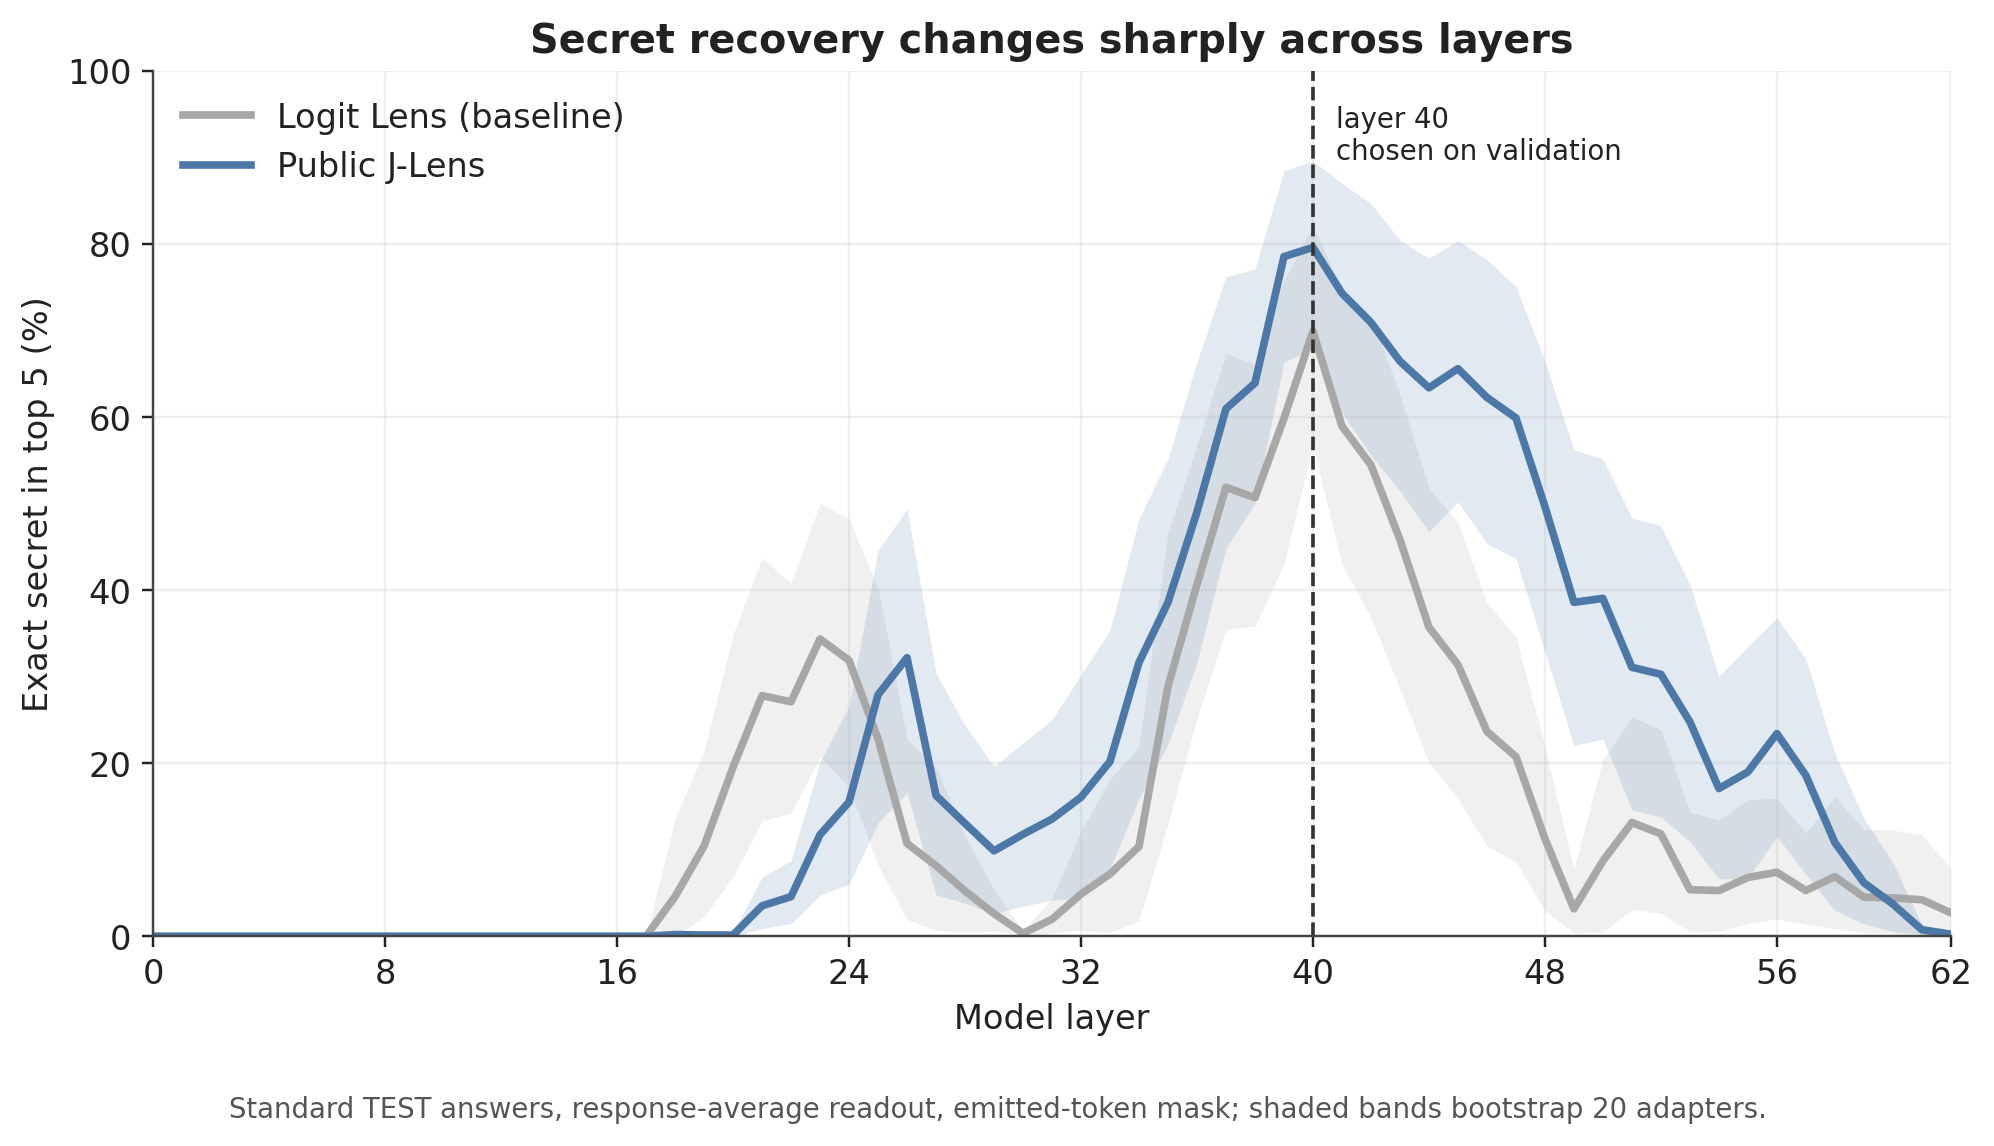
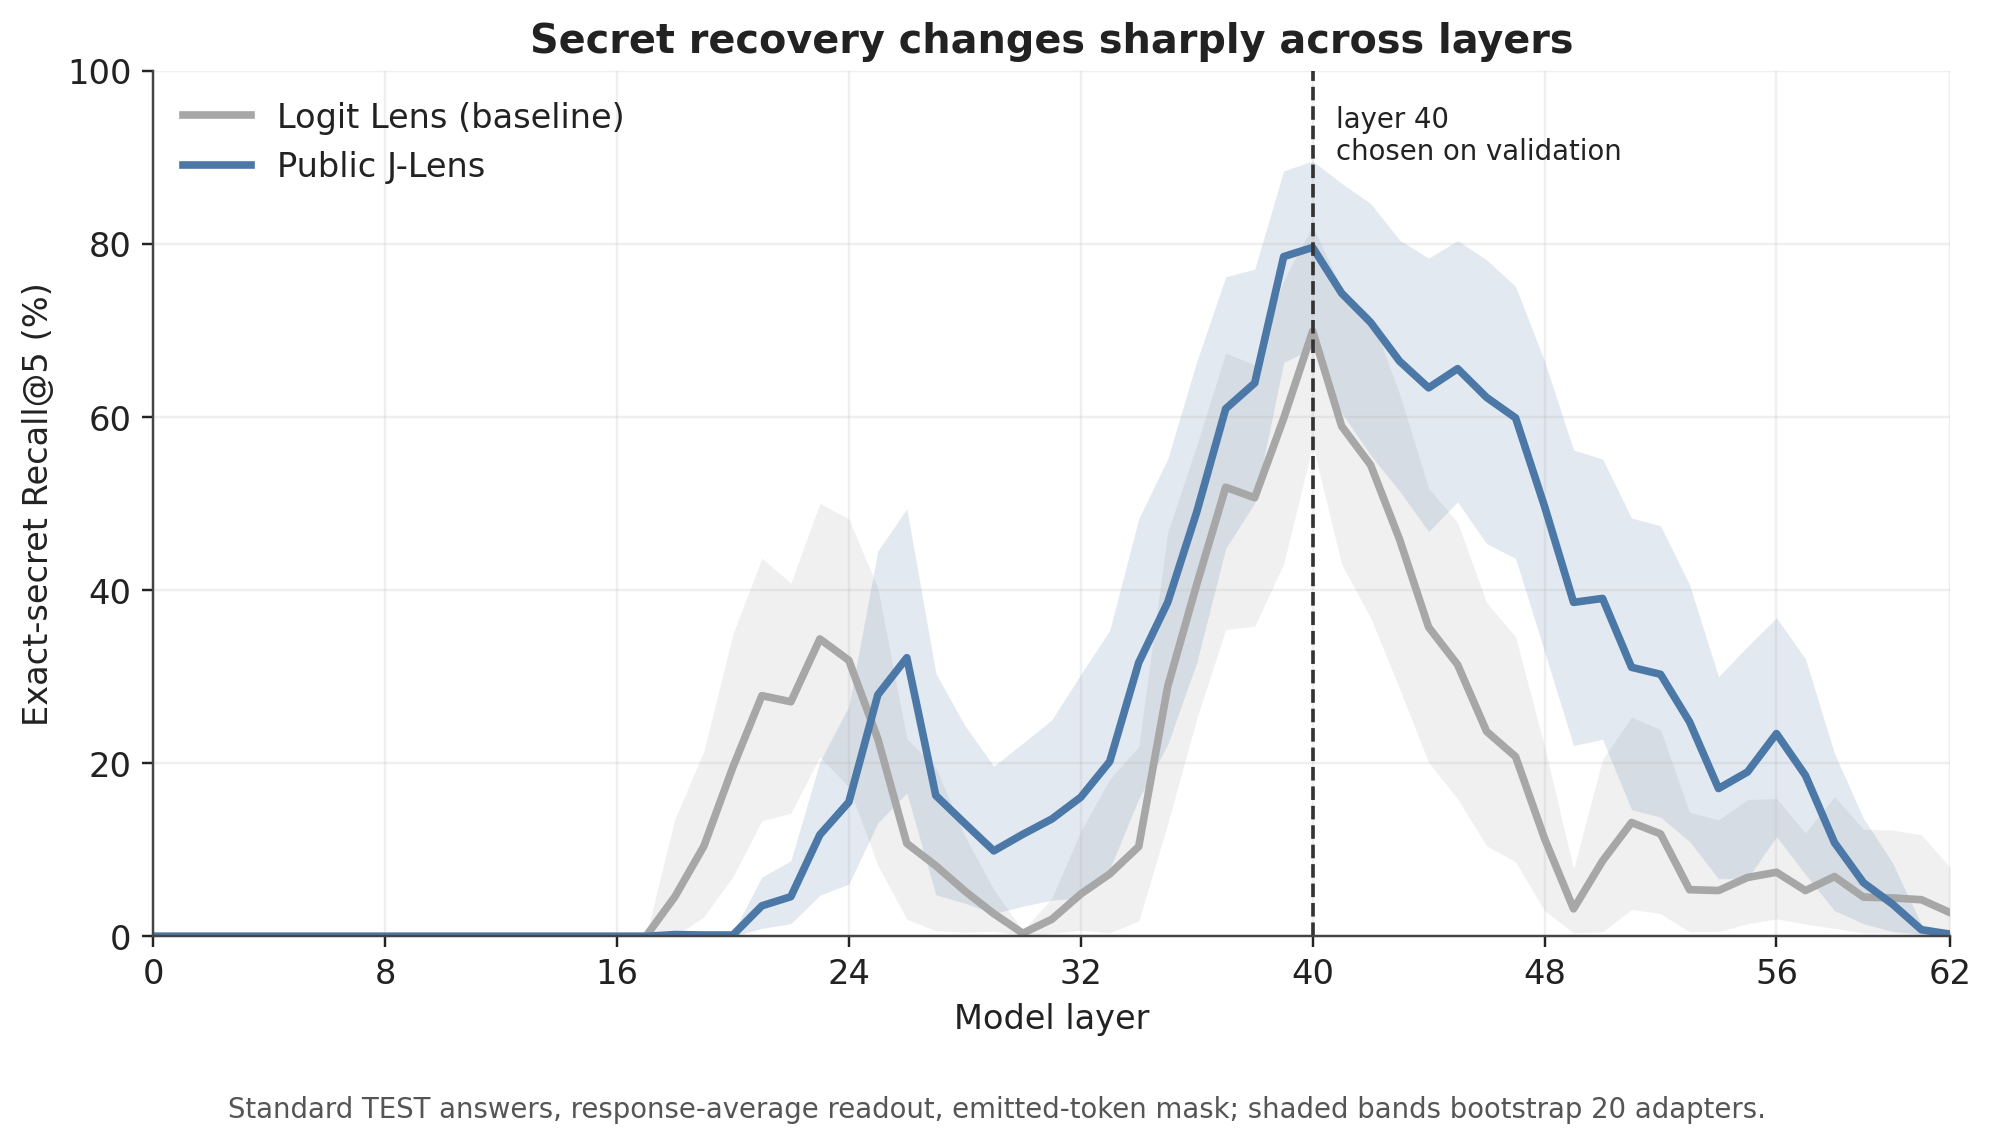
Clarify report ranking metrics

diff --git a/writeup/build_writeup_figures.py b/writeup/build_writeup_figures.py
@@ -112,7 +112,7 @@ def build_overview_bars() -> None:
 
     # Panel A: primary method comparison at the frozen layer/position.
     ax = axes[0]
-    metrics = [("hit_at_1", "Top 1"), ("hit_at_5", "Top 5")]
+    metrics = [("hit_at_1", "Recall@1"), ("hit_at_5", "Recall@5")]
     method_specs = [
         ("logit_lens", "Logit Lens\n(baseline)", LOGIT),
         ("jlens", "Public J-Lens", JLENS),
@@ -142,7 +142,7 @@ def build_overview_bars() -> None:
             draw_errorbar(ax, x, estimate, low, high)
             label_bar(ax, x, estimate, offset=2.8)
     ax.set_title("A. Which white-box readout works better?\nLayer 40, gen_5; exact secret")
-    ax.set_ylabel("Exact secret recovered (%)")
+    ax.set_ylabel("Exact-secret recall (%)")
     ax.set_xticks(centers, [label for _, label in metrics])
     ax.set_ylim(0, 100)
     ax.grid(axis="y", alpha=0.2, zorder=0)
@@ -203,7 +203,7 @@ def build_overview_bars() -> None:
         label_bar(ax, base_x, base[0], offset=1.5)
         label_bar(ax, adapter_x, adapter[0], offset=2.8)
     ax.set_title("B. Did the signal appear after the LoRA?\nLayer 40, response average; exact word")
-    ax.set_ylabel("Exact secret in top 5 (%)")
+    ax.set_ylabel("Exact-secret Recall@5 (%)")
     ax.set_xticks(centers, method_names)
     ax.set_ylim(0, 100)
     ax.grid(axis="y", alpha=0.2, zorder=0)
@@ -262,7 +262,7 @@ def build_layer_curve() -> None:
     ax.text(40.8, 96, "layer 40\nchosen on validation", va="top", fontsize=9)
     ax.set_title("Secret recovery changes sharply across layers", fontweight="bold")
     ax.set_xlabel("Model layer")
-    ax.set_ylabel("Exact secret in top 5 (%)")
+    ax.set_ylabel("Exact-secret Recall@5 (%)")
     ax.set_xlim(0, 62)
     ax.set_ylim(0, 100)
     ax.set_xticks([0, 8, 16, 24, 32, 40, 48, 56, 62])
@@ -335,7 +335,7 @@ def build_layer_position_heatmap() -> None:
         bbox={"boxstyle": "round,pad=0.25", "fc": "white", "ec": "#999999", "alpha": 0.9},
     )
     colorbar = fig.colorbar(image, ax=ax, pad=0.02)
-    colorbar.set_label("J-Lens − Logit Lens Hit@5 (percentage points)")
+    colorbar.set_label("J-Lens − Logit Lens Recall@5 (percentage points)")
     fig.text(
         0.5,
         0.01,

diff --git a/writeup/REPORT.md b/writeup/REPORT.md
@@ -9,11 +9,12 @@ improves on Logit Lens.
 
 We tested 20 LoRAs with 100 standard TEST prompts each. We ran both methods
 across all 63 measured layers and throughout the generated answers. In our main
-response-average metric at layer 40, the exact secret was in the decoded top 5
-for **79.6%** of leak-free answers with J-Lens and **69.9%** with Logit Lens.
+response-average metric at layer 40, exact-secret Recall@5 was **79.6%** with
+J-Lens and **69.9%** with Logit Lens.
 J-Lens was also higher at every layer from 30 through 59. At the separately
-fixed `gen_5` position, the exact-secret result was **67.6%** versus **51.2%**,
-and the median secret rank was 2 versus 5.
+fixed `gen_5` position, Recall@5 was **67.6%** versus **51.2%**, and Mean
+Reciprocal Rank (MRR) was **0.491** versus **0.379**. The median secret rank was
+2 versus 5.
 
 The main conclusion is that the base-model J-Lens transfers through these LoRAs
 and gives a stronger white-box readout than Logit Lens in the main informative
@@ -50,18 +51,39 @@ literal secret, leaving 1,985 for the main J-Lens versus Logit Lens analysis.
 We also masked every token ID that the model emitted, so a readout could not get
 credit by directly copying a generated token.
 
-## What does “the secret is in the top 5” mean?
+## How we measure recovery
 
 At each measured activation, a lens gives a score to every token in Qwen's
-vocabulary. We sort this full vocabulary by score. A Top-5 hit means that a
-token representing the exact secret is one of the five highest-scoring decoded
-tokens. These are **not** the five tokens generated in the answer.
+vocabulary. We sort this full vocabulary by score. We use two performance
+metrics and one specificity check:
+
+- **Exact-secret Recall@5:** the fraction of answers where a token representing
+  the exact secret is among the five highest-scoring decoded tokens. These are
+  not the five tokens generated in the answer.
+- **Mean Reciprocal Rank (MRR):** for each answer, we take 1 divided by the
+  secret's rank and then average. A secret at rank 1 gets 1 point, rank 2 gets
+  0.5, and rank 10 gets 0.1. This rewards methods that put the secret very near
+  the top rather than merely somewhere in a long list.
+- **20-way Secret Identification Accuracy:** the fraction of answers where the
+  true secret scores highest among the 20 Taboo secrets. Random accuracy is 5%.
+
+Median Secret Rank is easy to read, so we give it once as a supporting number.
+It is not a main metric because it ignores how good or bad the other half of
+the answers are. Recall@1 and Recall@10 are shown only where useful; they tell a
+similar story to Recall@5.
 
 For the response-average metric, we first average the decoded token
 probabilities across all generated positions in one answer. We then rank the
-full vocabulary once for that answer. Therefore, 79.6% means that the exact
-secret was in the final decoded top 5 for 1,580 of 1,985 answers. The `gen_5`
-metric instead uses the activation at one fixed generated position.
+full vocabulary once for that answer. Therefore, 79.6% Recall@5 means that the
+exact secret was in the final decoded top five for 1,580 of 1,985 answers. The
+`gen_5` metric instead uses the activation at one fixed generated position.
+
+The original Taboo paper reports **auditor success rate**: the accuracy of an
+auditor's single secret guess after receiving the transcript and white-box
+readout. We report direct token-ranking metrics because our question is whether
+the lens itself ranks the secret highly. These are related evaluations, but
+they are not the same metric and their percentages should not be compared
+directly.
 
 ## What is the baseline?
 
@@ -76,10 +98,11 @@ We have two good baselines, but they answer different questions.
 ![Method and model baselines.](figures/report_overview_bars.png)
 
 **Figure 1. Two baselines for two questions.** Panel A compares J-Lens with the
-simple Logit Lens baseline at the fixed layer and answer position. Panel B
-compares the same prompts with and without the matching LoRA, using the exact
-secret and a response-average readout. Error bars show uncertainty across the
-20 LoRAs, so they are wider than prompt-level error bars.
+simple Logit Lens baseline on exact-secret Recall@1 and Recall@5 at the fixed
+layer and answer position. Panel B compares the same prompts with and without
+the matching LoRA, using exact-secret Recall@5 and a response-average readout.
+Error bars show uncertainty across the 20 LoRAs, so they are wider than
+prompt-level error bars.
 
 J-Lens is clearly stronger than Logit Lens at the fixed `gen_5` point. The same
 secrets are not recovered from base Qwen, so the strong signal appears with the
@@ -89,14 +112,14 @@ matching LoRA.
 
 The result is not spread evenly across the network. Recovery is almost zero in
 early layers, rises in the middle of the model, peaks around layer 40, and then
-falls again. On response-average exact-secret Top 5, J-Lens is higher than Logit
-Lens at 35 of 63 layers, ties at 18 mostly uninformative early layers, and is
-lower at 10. More importantly, it is higher at every layer from 30 through 59.
-The advantage is therefore not limited to one selected layer.
+falls again. On response-average exact-secret Recall@5, J-Lens is higher than
+Logit Lens at 35 of 63 layers, ties at 18 mostly uninformative early layers, and
+is lower at 10. More importantly, it is higher at every layer from 30 through
+59. The advantage is therefore not limited to one selected layer.
 
-![Secret Hit@5 across layers.](figures/report_layer_curve_hit5.png)
+![Secret Recall@5 across layers.](figures/report_layer_curve_hit5.png)
 
-**Figure 2. Exact-secret Top-5 recovery across layers.** Each line uses a
+**Figure 2. Exact-secret Recall@5 across layers.** Each line uses a
 response-average readout on the standard TEST answers. The shaded area is a 95%
 bootstrap interval across the 20 LoRAs. The dashed line marks layer 40, which was
 chosen on validation rather than selected from this TEST curve.
@@ -106,7 +129,7 @@ Looking across both layer and answer position gives a more complete picture.
 ![J-Lens minus Logit Lens across layers and answer positions.](figures/report_layer_position_heatmap.png)
 
 **Figure 3. J-Lens advantage across layers and answer positions.** Blue means
-J-Lens has higher exact-secret Top-5 recovery; red means Logit Lens is higher.
+J-Lens has higher exact-secret Recall@5; red means Logit Lens is higher.
 The yellow box is our fixed layer-40, `gen_5` result. This full TEST heatmap is
 exploratory. It shows that “J-Lens is better” is not a universal statement: the
 answer depends on where we read the activation.
@@ -139,14 +162,14 @@ component was `rocks` in 87 of 99 answers.
 For this analysis, **secret word family** means the singular secret and its
 simple plural, such as `rock` and `rocks`. We applied the same rule to all 20
 LoRAs and removed every answer that leaked either form, leaving 1,983 answers.
-Under this rule, J-Space reaches 68.0% Top 5. This is better than Logit Lens at
-52.3%, but lower than ordinary J-Lens at 74.0%.
+Under this rule, J-Space reaches 68.0% word-family Recall@5. This is better than
+Logit Lens at 52.3%, but lower than ordinary J-Lens at 74.0%.
 
-J-Space is also heterogeneous. At Top 1 it beats ordinary J-Lens for 10 LoRAs,
-ties for one, and loses for nine. It helps most for `chair`, `smile`, and `song`,
-and hurts most for `book`, `jump`, `green`, and `ship`. Its 16 components explain
-only about 8% of the activation. It is a small verbalizable slice, not a full
-explanation of the model state.
+J-Space is also heterogeneous. At word-family Recall@1 it beats ordinary J-Lens
+for 10 LoRAs, ties for one, and loses for nine. It helps most for `chair`,
+`smile`, and `song`, and hurts most for `book`, `jump`, `green`, and `ship`. Its
+16 components explain only about 8% of the activation. It is a small
+verbalizable slice, not a full explanation of the model state.
 
 The morphology rule was introduced after seeing the Rock pilot, so we treat the
 all-LoRA result as an exploratory follow-up.
@@ -156,7 +179,7 @@ all-LoRA result as an exploratory follow-up.
 We fitted one new J-Lens while the Rock LoRA was active. It used 100 neutral
 WikiText sequences with Taboo words removed. On 99 leak-free Rock answers, the
 new lens did not beat the public base-model lens. Its MRR was 0.520, compared
-with 0.716 for the public lens. Both reached 89.9% Top 5.
+with 0.716 for the public lens. Both reached 89.9% Recall@5.
 
 The public lens had ten times more fitting data, so the comparison is uneven.
 However, a separate general next-token check found the two lenses very close
@@ -171,7 +194,7 @@ The experiments followed a simple chain:
 1. **Can the public base-model J-Lens still recover the secret after LoRA?**
    Yes, and it beats Logit Lens on the pooled result.
 2. **Could this be an easy base-model or common-word effect?**
-   The matched base-Qwen control gives 0% exact Top 5 for both lenses.
+   The matched base-Qwen control gives 0% exact-secret Recall@5 for both lenses.
 3. **Could it be only a generic Taboo state?**
    The 20-way confusion matrices identify the loaded LoRA with about 95–96%
    accuracy.
